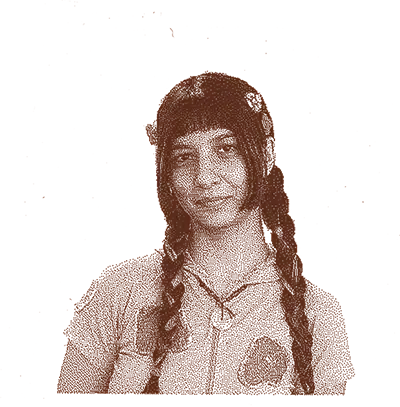
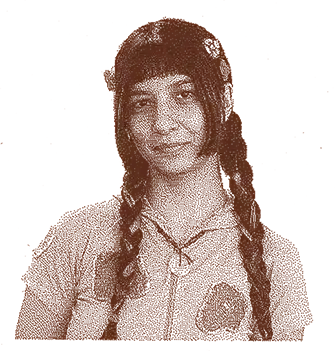
Fix katie headshot crop + about link styles (commented out difference for now)

diff --git a/styles.css b/styles.css
@@ -308,9 +308,9 @@
         position: fixed;
         width: clamp(170px, 15vw, 300px);
         right: 0;
-        color: rgb(247, 246, 233);
-        mix-blend-mode: difference;
-        
+        color: var(--color);
+        /* mix-blend-mode: difference; */
+        text-align: right;
     }
 
     #m-index {
